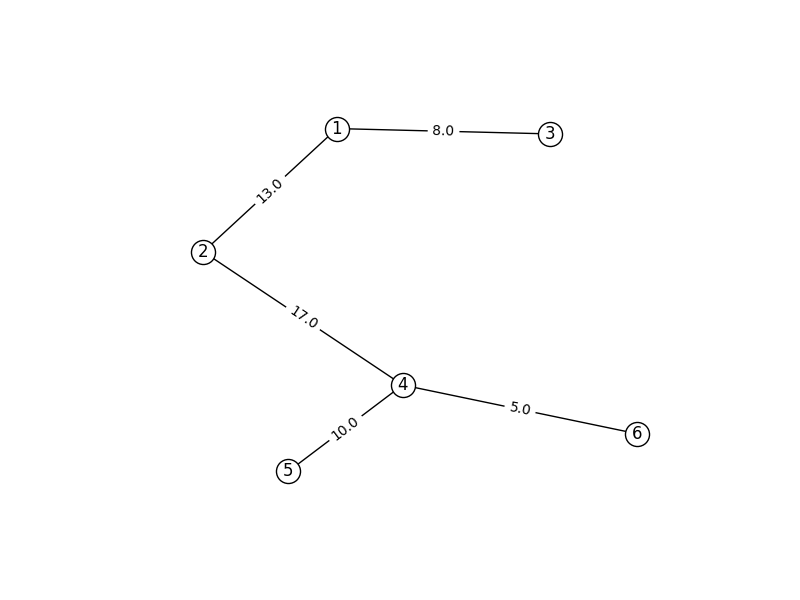
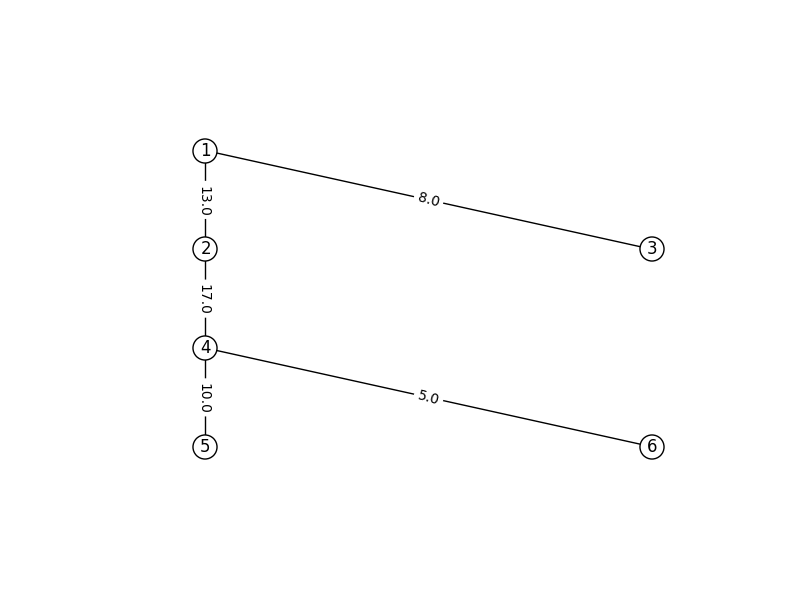
arrumar grafos e desenhos da lista 1

diff --git a/fluxos/lista1/grafo-c.py b/fluxos/lista1/grafo-c.py
@@ -9,25 +9,25 @@ Created on Sun Mar 27 01:20:46 2016
 import matplotlib.pyplot as plt
 import networkx as nx
 
+
 def main():
-    G = nx.DiGraph() # G eh um grafo direcionado
-    # gera o grafo apartir de suas arestas 
-    G.add_weighted_edges_from([(1,2,13.0),(1,3,8.0),(1,5,33.0),(2,3,22.0),(2,4,17.0),(2,6,20.0),(3,5,18.0),(4,5,10.0),(4,6,5.0),(5,6,15.0)])
-    
-    desenhaGrafo(G,"grafo-c.png")
-    T = nx.minimum_spanning_tree(nx.to_networkx_graph(G))
-    desenhaGrafo(T,"arv-min-c.png")
+    G = nx.Graph()  # G eh um grafo direcionado
+    # gera o grafo apartir de suas arestas
+    G.add_weighted_edges_from([(1, 2, 13.0), (1, 3, 8.0), (1, 5, 33.0), (2, 3, 22.0), (2, 4, 17.0), (2, 6, 20.0), (3, 5, 18.0), (4, 5, 10.0), (4, 6, 5.0), (5, 6, 15.0)])
+    desenhaGrafo(G, "grafo-c.png")
+    T = nx.minimum_spanning_tree(G)
+    desenhaGrafo(T, "arv-min-c.png")
 
 
-def desenhaGrafo(G,pngfilename): # desenha o grafo e salva numa imagem png
-    edge_labels=dict([((u,v,),d['weight']) # gera os labels das arestas
-                    for u,v,d in G.edges(data=True)])
-    pos = nx.fruchterman_reingold_layout(G,weight=None) # obtem a posicao dos nos (para desenhalo) # TODO: desativar isso?
-    nx.draw_networkx_edges(G,pos) # desenha as arestas
-    nx.draw_networkx_labels(G,pos) # desenha os labels das arestas
-    nx.draw_networkx_edge_labels(G,pos,edge_labels=edge_labels) # desenha os labels dos nos
-    nx.draw_networkx_nodes(G,pos,node_color='w') # desenha os nos
-    plt.axis('off') # desativa os eixos
+def desenhaGrafo(G, pngfilename):  # desenha o grafo e salva numa imagem png
+    edge_labels = dict([((u, v,), d['weight'])  # gera os labels das arestas
+                                                for u, v, d in G.edges(data=True)])
+    pos = nx.graphviz_layout(G, prog='dot')  # obtem a posicao dos nos (para desenhalo) # TODO: desativar isso?
+    nx.draw_networkx_edges(G, pos)  # desenha as arestas
+    nx.draw_networkx_labels(G, pos)  # desenha os labels das arestas
+    nx.draw_networkx_edge_labels(G, pos, edge_labels=edge_labels)  # desenha os labels dos nos
+    nx.draw_networkx_nodes(G, pos, node_color='w')  # desenha os nos
+    plt.axis('off')  # desativa os eixos
     plt.savefig(pngfilename)
     plt.close("all")
 

diff --git a/fluxos/lista1/grafo-av2.py b/fluxos/lista1/grafo-av2.py
@@ -9,25 +9,25 @@ Created on Sun Mar 27 01:20:46 2016
 import matplotlib.pyplot as plt
 import networkx as nx
 
+
 def main():
-    G = nx.DiGraph() # G eh um grafo direcionado
-    # gera o grafo apartir de suas arestas 
-    G.add_weighted_edges_from([(1,2,2.0),(1,3,2.0),(1,4,3.0),(2,5,5.0),(3,2,4.0),(3,5,3.0),(4,3,1.0),(4,5,0.0)])
-    
-    desenhaGrafo(G,"grafo-a2.png")
-    T = nx.minimum_spanning_tree(nx.to_networkx_graph(G))
-    desenhaGrafo(T,"arv-min-a2.png")
+    G = nx.Graph()  # G eh um grafo direcionado
+    # gera o grafo apartir de suas arestas
+    G.add_weighted_edges_from([(1, 2, 2.0), (1, 3, 2.0), (1, 4, 3.0), (2, 5, 5.0), (3, 2, 4.0), (3, 5, 3.0), (4, 3, 1.0), (4, 5, 0.0)])
+    desenhaGrafo(G, "grafo-a2.png")
+    T = nx.minimum_spanning_tree(G)
+    desenhaGrafo(T, "arv-min-a2.png")
 
 
-def desenhaGrafo(G,pngfilename): # desenha o grafo e salva numa imagem png
-    edge_labels=dict([((u,v,),d['weight']) # gera os labels das arestas
-                    for u,v,d in G.edges(data=True)])
-    pos = nx.spectral_layout(G,weight=None) # obtem a posicao dos nos (para desenhalo) # TODO: desativar isso?
-    nx.draw_networkx_edges(G,pos) # desenha as arestas
-    nx.draw_networkx_labels(G,pos) # desenha os labels das arestas
-    nx.draw_networkx_edge_labels(G,pos,edge_labels=edge_labels) # desenha os labels dos nos
-    nx.draw_networkx_nodes(G,pos,node_color='w') # desenha os nos
-    plt.axis('off') # desativa os eixos
+def desenhaGrafo(G, pngfilename):  # desenha o grafo e salva numa imagem png
+    edge_labels = dict([((u, v,), d['weight'])  # gera os labels das arestas
+                                                for u, v, d in G.edges(data=True)])
+    pos = nx.spectral_layout(G, weight=None)  # obtem a posicao dos nos (para desenhalo) # TODO: desativar isso?
+    nx.draw_networkx_edges(G, pos)  # desenha as arestas
+    nx.draw_networkx_labels(G, pos)  # desenha os labels das arestas
+    nx.draw_networkx_edge_labels(G, pos, edge_labels=edge_labels)  # desenha os labels dos nos
+    nx.draw_networkx_nodes(G, pos, node_color='w')  # desenha os nos
+    plt.axis('off')  # desativa os eixos
     plt.savefig(pngfilename)
     plt.close("all")
 
